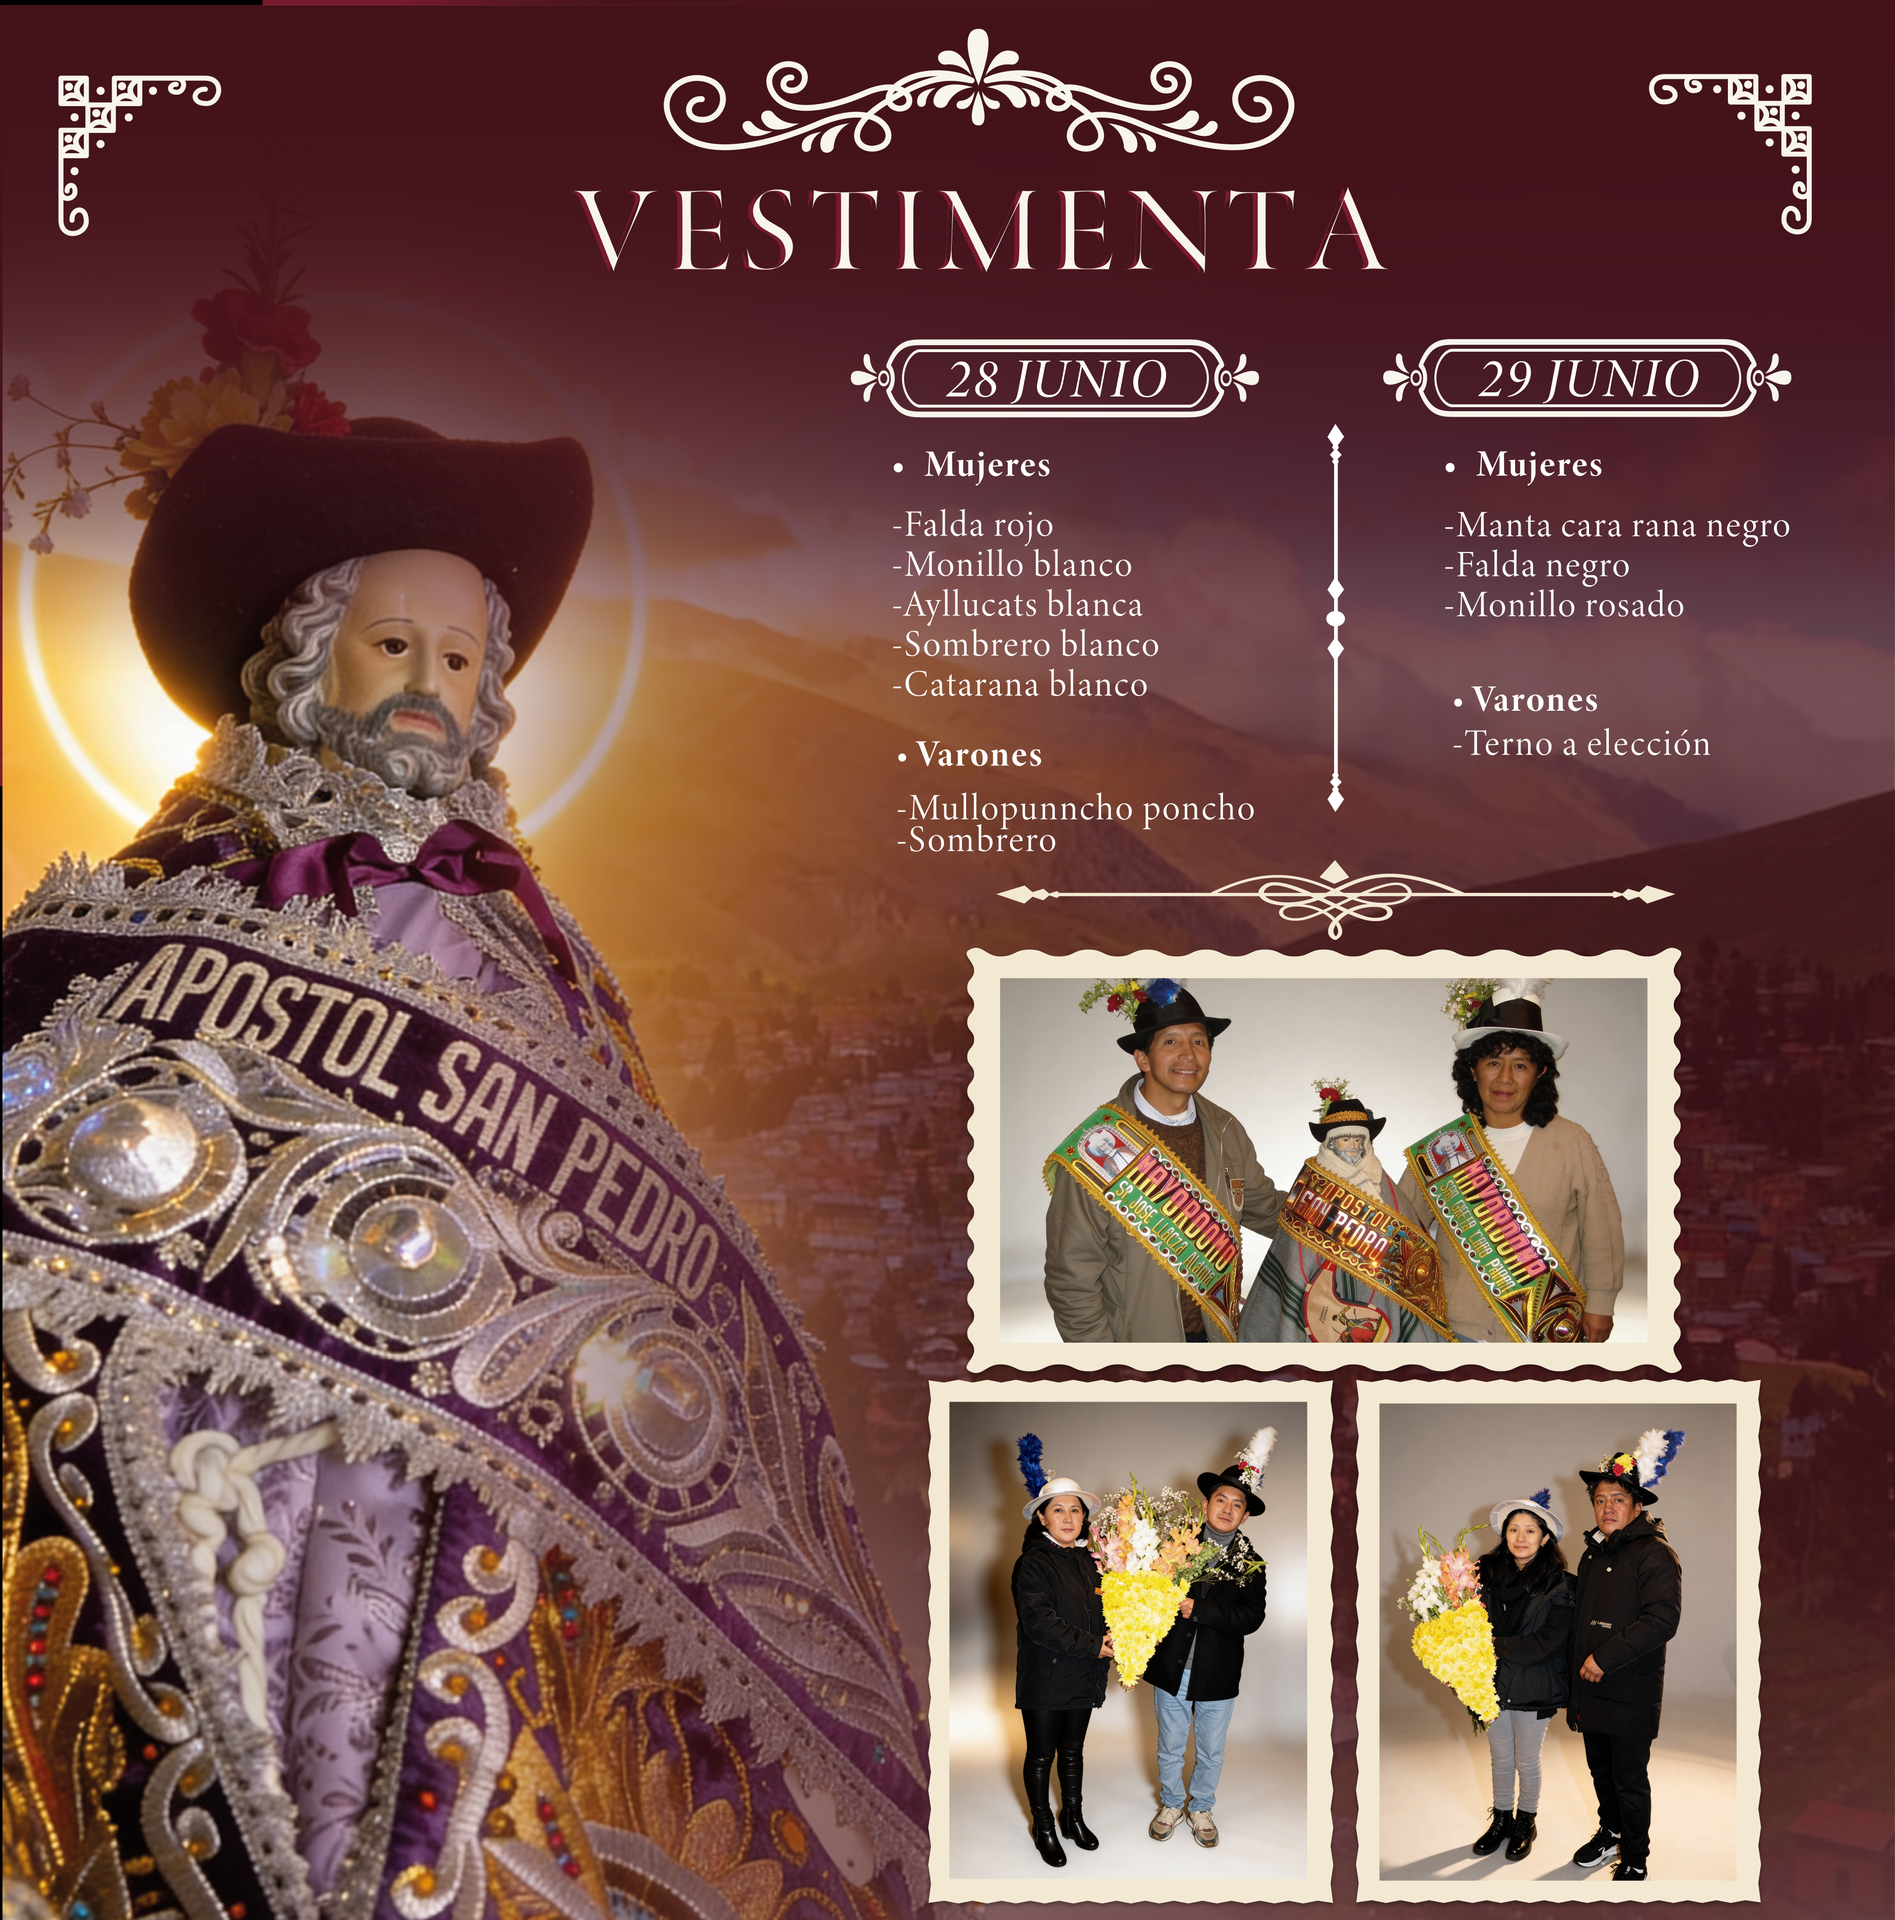
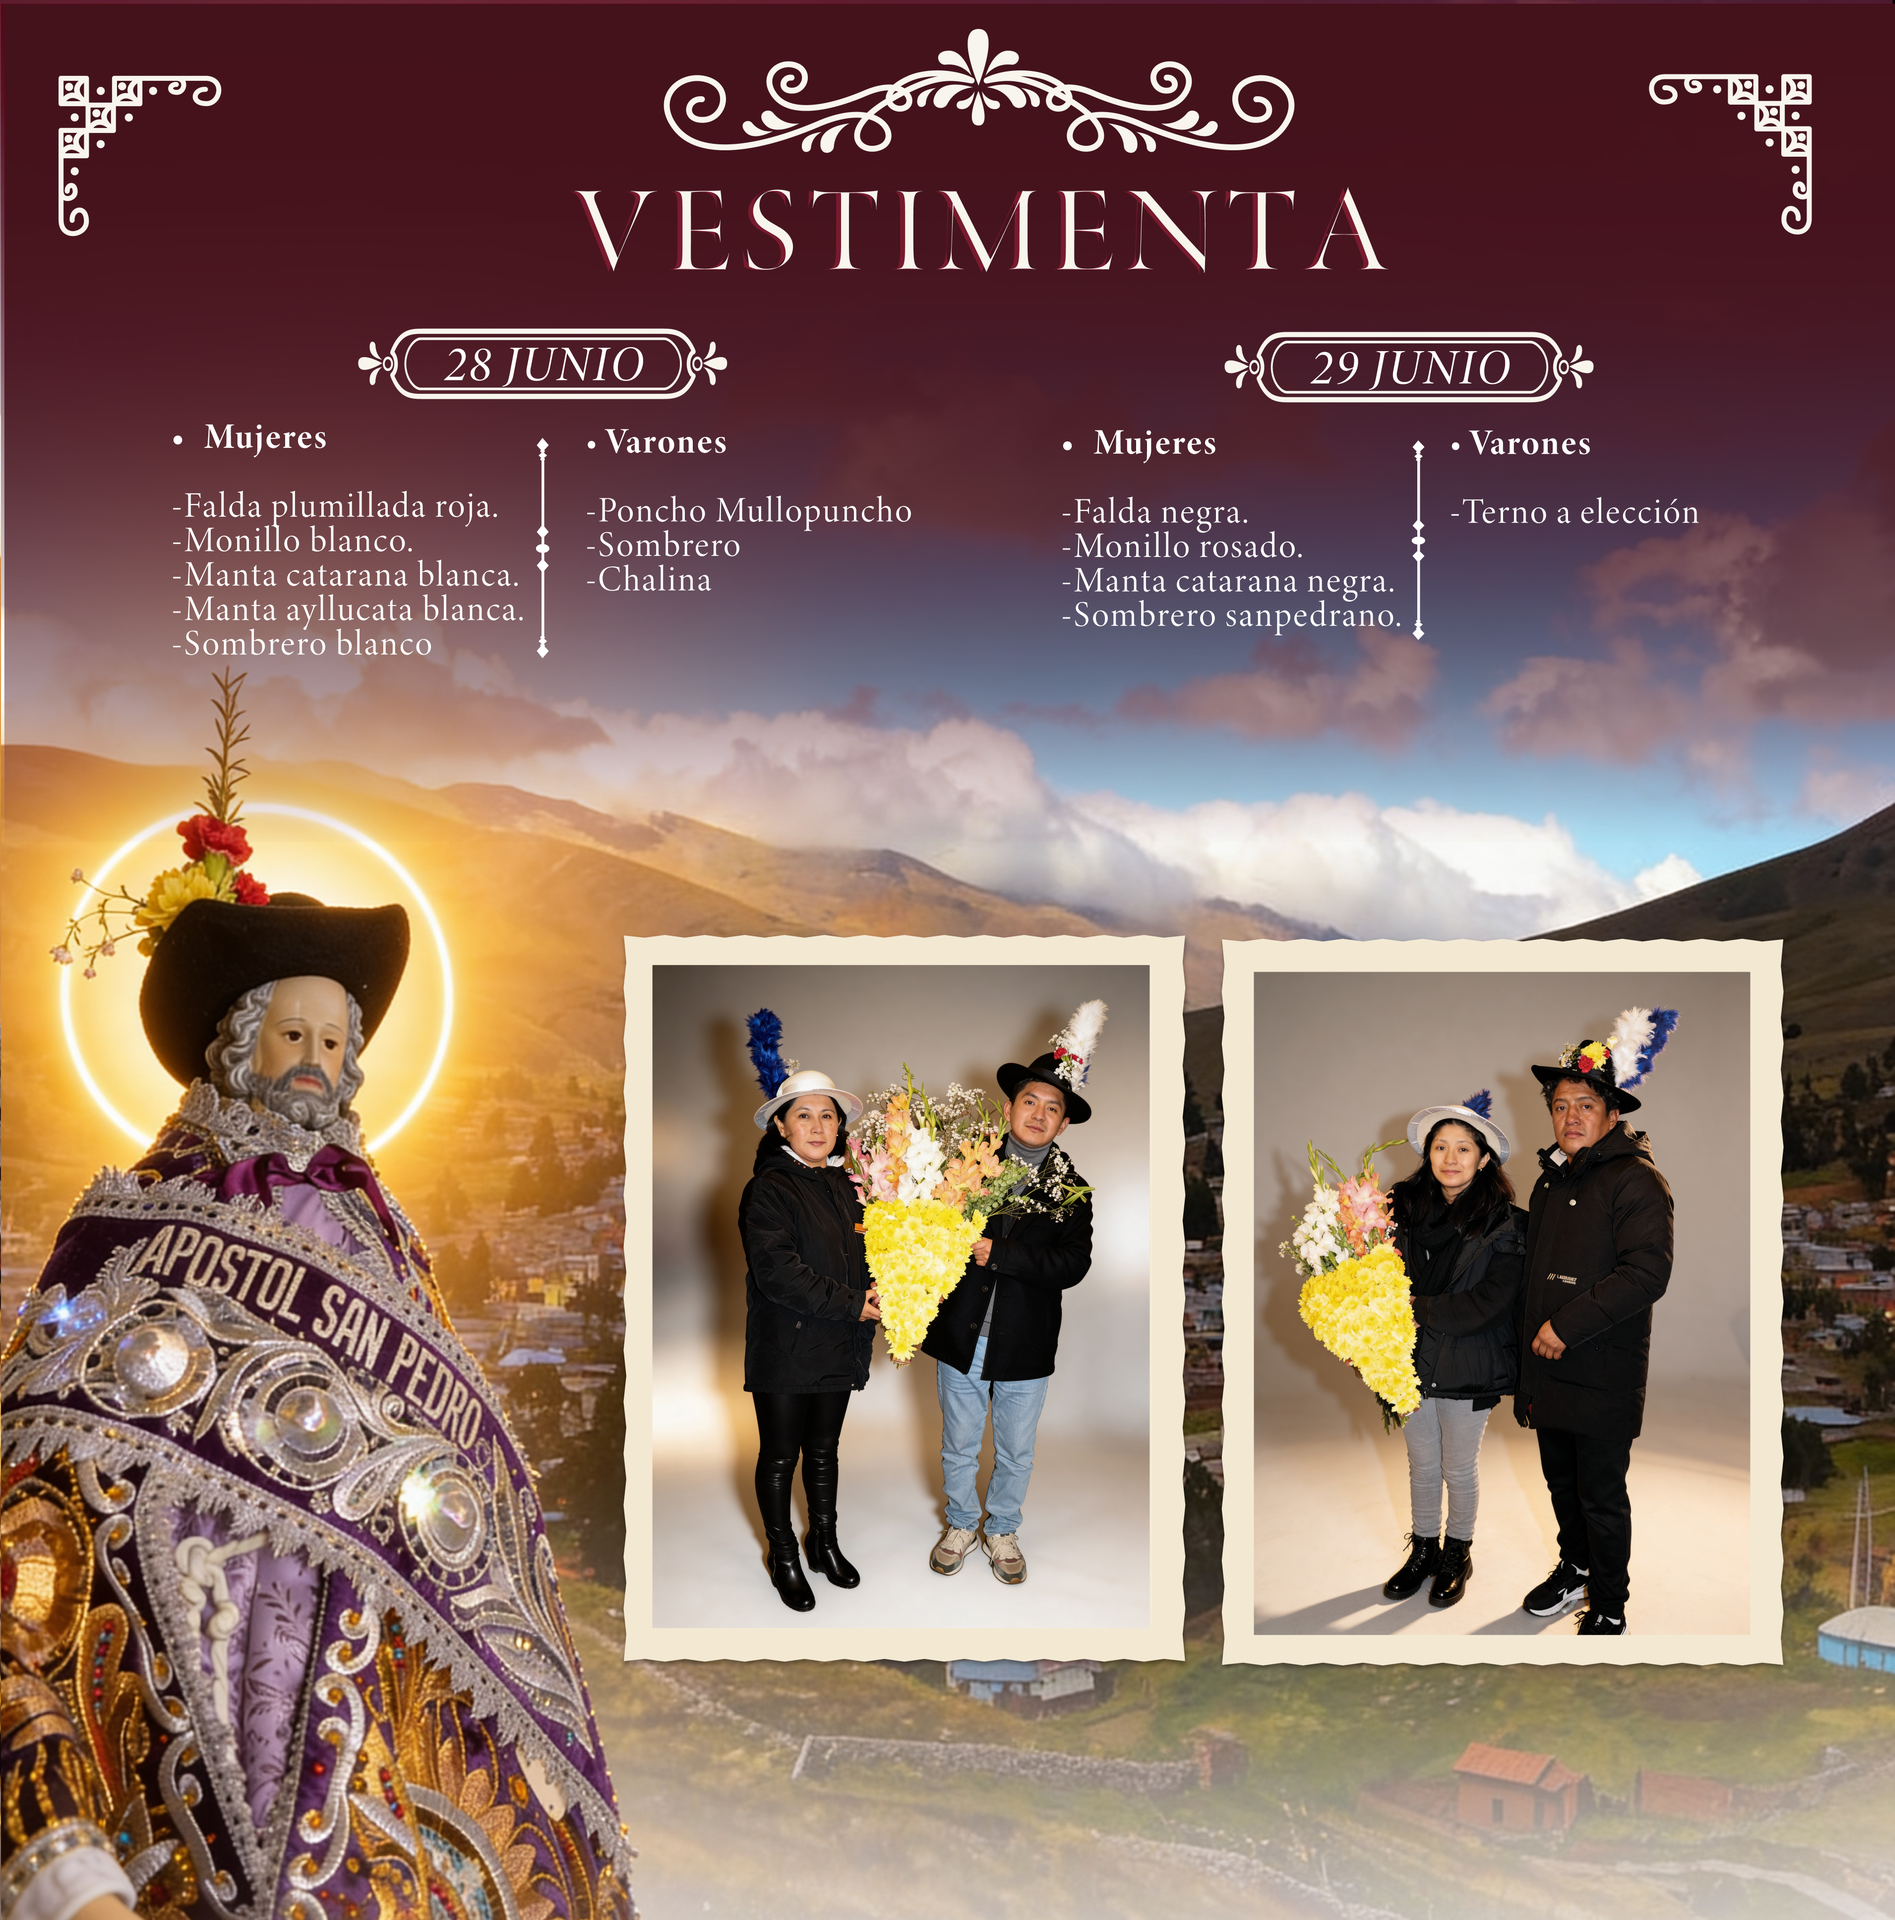
Mejoras

diff --git a/index.html b/index.html
@@ -469,7 +469,7 @@
         <div class="cover-inner">
             <div class="orn orn-tl"></div><div class="orn orn-tr"></div>
             <div class="orn orn-bl"></div><div class="orn orn-br"></div>
-            <img src="pages-1.jpg" alt="Portada">
+            <img src="pages-1.png" alt="Portada">
         </div>
     </div>
     <div class="hint">